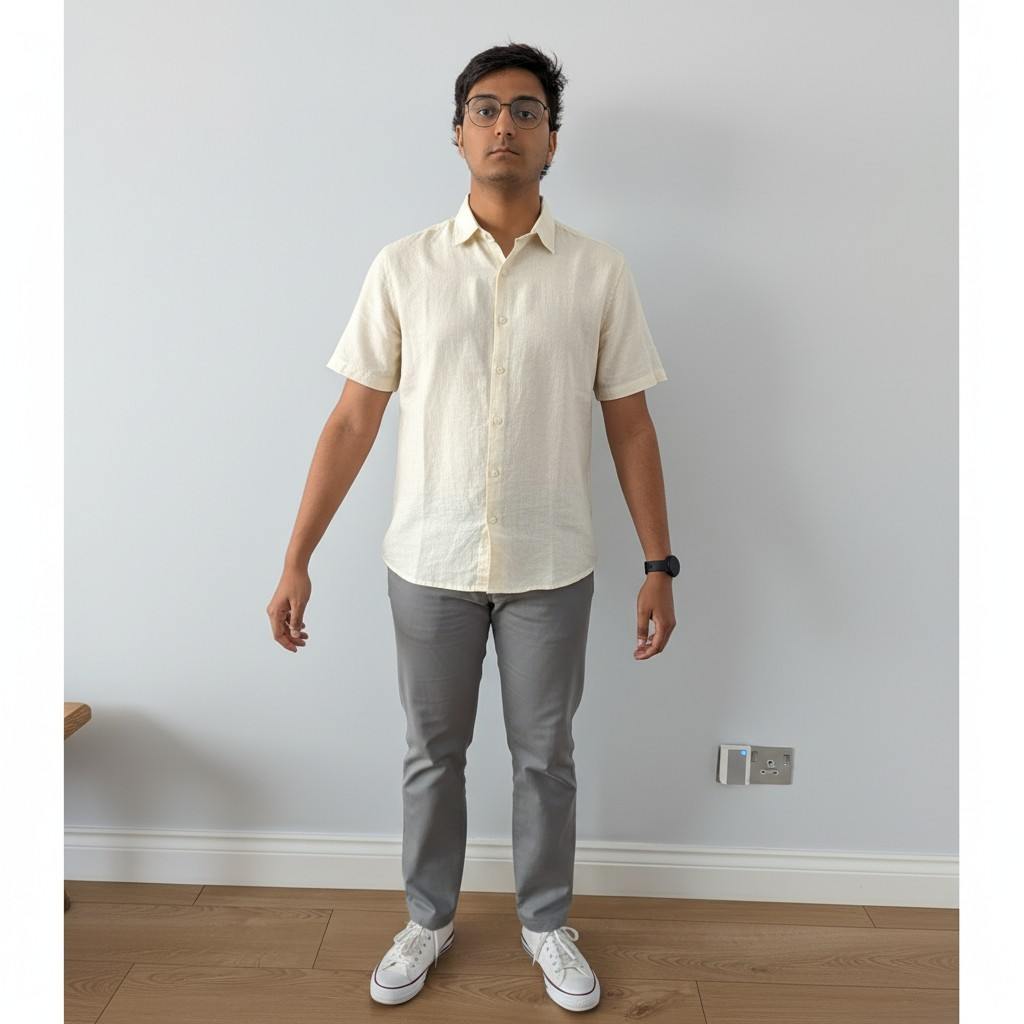
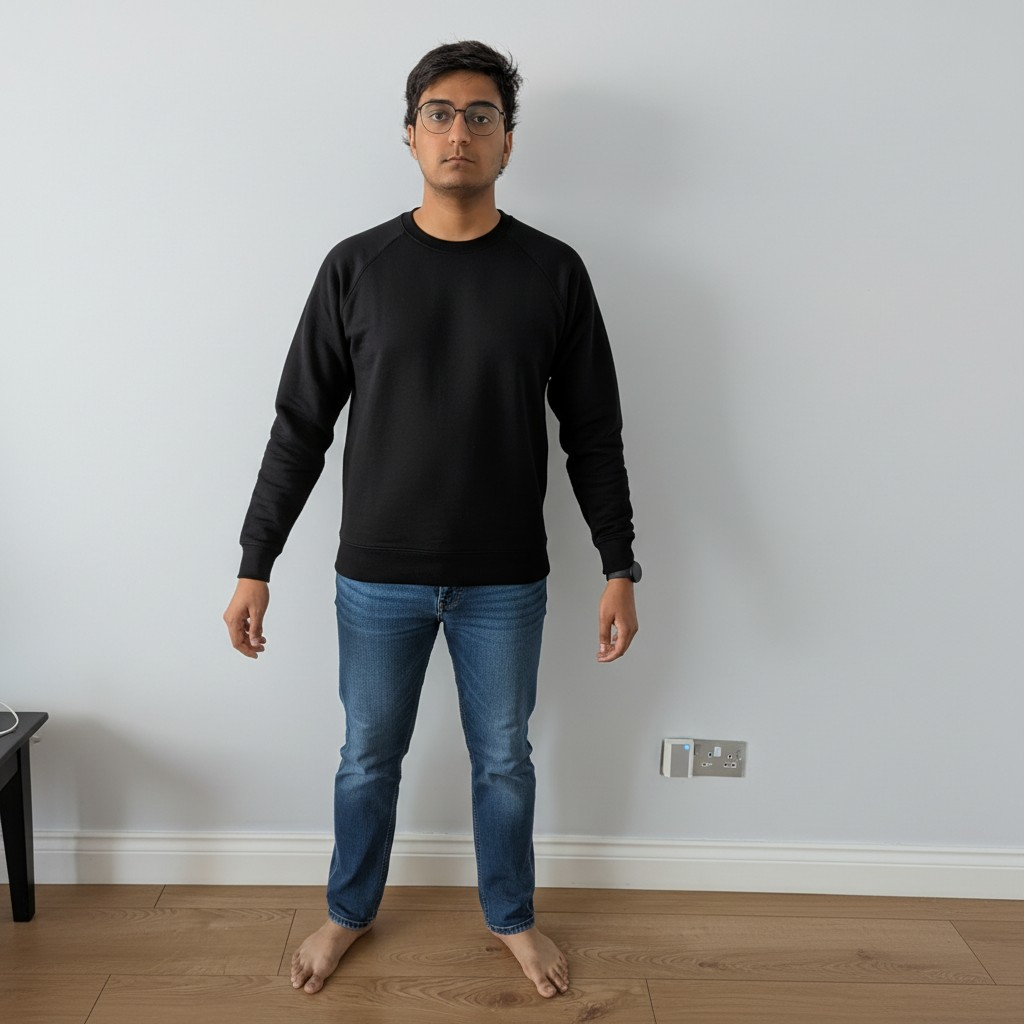
Add multipart image upload support for NanoBanana image editing

diff --git a/API-Learning.py b/API-Learning.py
@@ -110,23 +110,28 @@ def showImageWithCloudflare(data):
         f.write(imageResponse.content) #Gets the binary data
 
 def showImageWithPollinations(data):
-    mainTop = data["primary_outfit"]["top"]
-    mainBottoms = data["primary_outfit"]["bottom"]
-    prompt = f"Replace the clothing of the person in the image with a {mainTop} and {mainBottoms}. Keep the exact same person, face, hairstyle, skin tone, body shape, pose and background. Only change the clothing. Photorealistic photograph. Realistic face. Realistic human proportions. Do not change identity. Show the person's shoes and both feet."
+    files = [
+        ("image", open("images/user.jpg", "rb")),
+        ("image", open("images/black-sweater.jpg", "rb")),
+    ] # Multipart-form data
+    #mainTop = data["primary_outfit"]["top"]
+    #mainBottoms = data["primary_outfit"]["bottom"]
+    #prompt = f"Replace the clothing of the person in the image with a {mainTop} and {mainBottoms}. Keep the exact same person, face, hairstyle, skin tone, body shape, pose and background. Only change the clothing. Photorealistic photograph. Realistic face. Realistic human proportions. Do not change identity. Show the person's shoes and both feet."
     #userImage = getUserImage()
-    #testPrompt = "Change only the person's shirt to bright neon green. Do not change anything else."
+    testPrompt = "Replace the person's top with the sweatshirt shown in the reference image. Replace the bottoms with blue jeans"
     #print(type(userImage))
     postImage = requests.post( # Post used for editing image
         "https://gen.pollinations.ai/v1/images/edits",
         headers = {
             "Authorization" : f"Bearer {POLLINATIONS_KEY}"
         },
-        json = {
-            "prompt" : prompt,
+        data = {
+            "prompt" : testPrompt,
             "model" : "nanobanana",
             "quality" : "high",
-            "image" : userImageURL,
-        }
+            #"image" : [userImageURL,"https://res.cloudinary.com/dytqwfesq/image/upload/v1782763960/PXL_20260629_200815120_em4hrt.jpg"],
+        },
+        files = files,
     )
     #Main image is as a b64 image or a URL
     print(postImage.status_code)
@@ -152,9 +157,9 @@ if response.status_code == 200:
     print(weather, temperature)
     userClothes = getClothes()
     try:
-        output = generateLLMResponse(weather, temperature, location, userClothes)
+        #output = generateLLMResponse(weather, temperature, location, userClothes)
         #showImage({})
-        showImageWithPollinations(output)
+        showImageWithPollinations({})
         image = Image.open("outfit.png")
         image.show()
     except ServerError:
